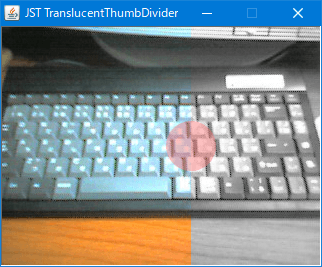
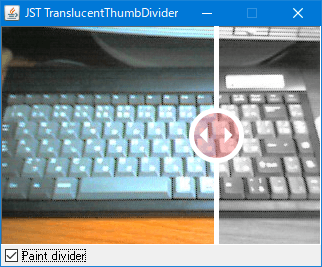
docs: TranslucentThumbDivider update screenshot

Changed region(s): [[0.0, 0.0899, 0.9938, 1.0]]

diff --git a/TranslucentThumbDivider/src/java/example/MainPanel.java b/TranslucentThumbDivider/src/java/example/MainPanel.java
@@ -57,7 +57,7 @@ public final class MainPanel extends JPanel {
         split.setRightComponent(afterCanvas);
 
         DividerLocationDragLayerUI layerUI = new DividerLocationDragLayerUI();
-        JCheckBox check = new JCheckBox("Transparent");
+        JCheckBox check = new JCheckBox("Paint divider");
         check.addActionListener(e -> layerUI.setPaintDividerEnabled(((JCheckBox) e.getSource()).isSelected()));
 
         add(new JLayer<>(split, layerUI));
@@ -130,14 +130,15 @@ class DividerLocationDragLayerUI extends LayerUI<JSplitPane> {
         g2.setStroke(new BasicStroke(5f));
         g2.setPaint(Color.WHITE);
         g2.draw(thumb);
-        Line2D line = new Line2D.Double(thumb.getCenterX(), 0d, thumb.getCenterX(), thumb.getMinY());
-        g2.draw(line);
-        AffineTransform at = AffineTransform.getQuadrantRotateInstance(2, thumb.getCenterX(), thumb.getCenterY());
-        g2.draw(at.createTransformedShape(line));
 
-        double v = 10d;
-        double mx = thumb.getCenterX() - thumb.getWidth() / 6d;
+        double cx = thumb.getCenterX();
         double cy = thumb.getCenterY();
+
+        Line2D line = new Line2D.Double(cx, 0d, cx, thumb.getMinY());
+        g2.draw(line);
+
+        double v = 8d;
+        double mx = cx - thumb.getWidth() / 4d + v / 2d;
         Path2D triangle = new Path2D.Double();
         triangle.moveTo(mx, cy - v);
         triangle.lineTo(mx - v,  cy);
@@ -145,6 +146,9 @@ class DividerLocationDragLayerUI extends LayerUI<JSplitPane> {
         triangle.lineTo(mx, cy - v);
         triangle.closePath();
         g2.fill(triangle);
+
+        AffineTransform at = AffineTransform.getQuadrantRotateInstance(2, cx, cy);
+        g2.draw(at.createTransformedShape(line));
         g2.fill(at.createTransformedShape(triangle));
     }
     public void setPaintDividerEnabled(boolean flg) {
